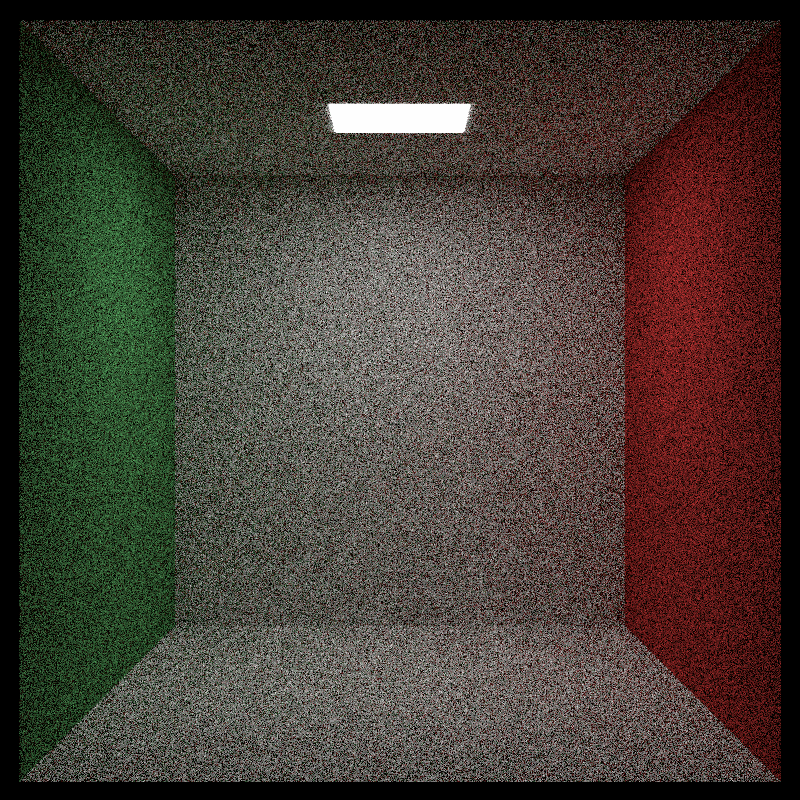
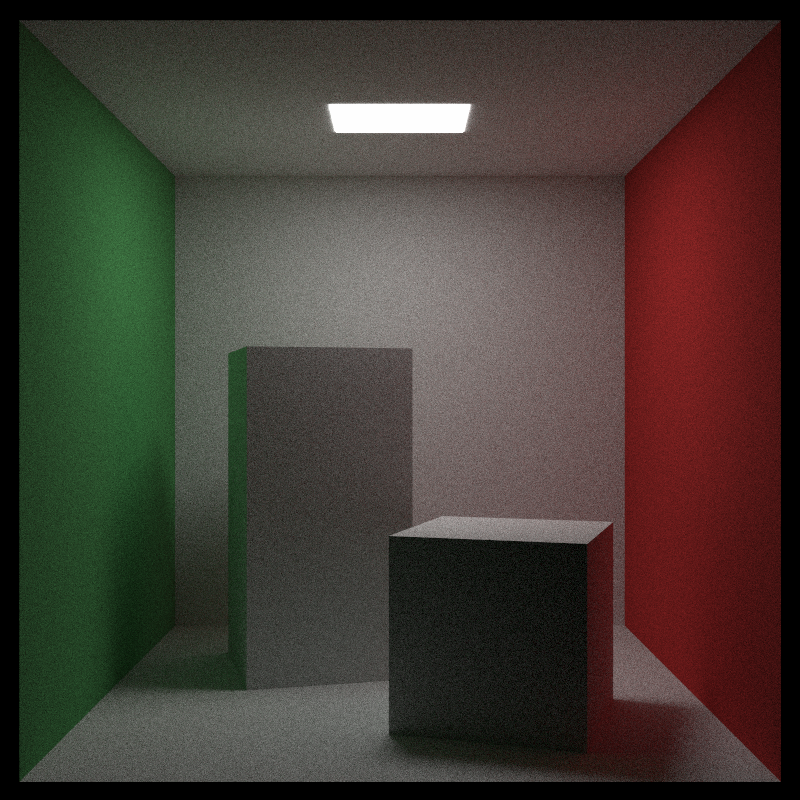
Add instances (Ch 8)

diff --git a/src/hittable.rs b/src/hittable.rs
@@ -117,3 +117,124 @@ impl Hittable for HittableList {
         Some(output_box)
     }
 }
+
+pub struct Translate {
+    hittable: Arc<dyn Hittable>,
+    offset: Vec3,
+}
+
+impl Translate {
+    pub fn new(hittable: Arc<dyn Hittable>, offset: Vec3) -> Self {
+        Self { hittable, offset }
+    }
+}
+
+impl Hittable for Translate {
+    fn bounding_box(&self, t0: f64, t1: f64) -> Option<Aabb> {
+        if let Some(aabb) = self.hittable.bounding_box(t0, t1) {
+            Some(Aabb::new(
+                aabb.min() + self.offset,
+                aabb.max() + self.offset,
+            ))
+        } else {
+            None
+        }
+    }
+
+    fn hit(&self, ray: &Ray, t_min: f64, t_max: f64) -> Option<HitRecord> {
+        let moved_ray = Ray::new(ray.origin() - self.offset, ray.direction(), ray.time());
+
+        if let Some(mut hit_rec) = self.hittable.hit(&moved_ray, t_min, t_max) {
+            hit_rec.point += self.offset;
+            let outward_normal = hit_rec.normal;
+            hit_rec.set_face_normal(&moved_ray, &outward_normal);
+            Some(hit_rec)
+        } else {
+            None
+        }
+    }
+}
+
+pub struct RotateY {
+    hittable: Arc<dyn Hittable>,
+    sin_theta: f64,
+    cos_theta: f64,
+    aabb: Option<Aabb>,
+}
+
+impl RotateY {
+    pub fn new(hittable: Arc<dyn Hittable>, angle: f64) -> Self {
+        let radians = angle.to_radians();
+        let sin_theta = radians.sin();
+        let cos_theta = radians.cos();
+        let aabb = hittable.bounding_box(0.0, 1.0).unwrap();
+
+        use std::f64::{INFINITY, NEG_INFINITY};
+        let mut min = Point3::new(INFINITY, INFINITY, INFINITY);
+        let mut max = Point3::new(NEG_INFINITY, NEG_INFINITY, NEG_INFINITY);
+
+        for i in 0..2 {
+            for j in 0..2 {
+                for k in 0..2 {
+                    let x = i as f64 * aabb.max().x() + (1.0 - i as f64) * aabb.min().x();
+                    let y = j as f64 * aabb.max().y() + (1.0 - j as f64) * aabb.min().y();
+                    let z = k as f64 * aabb.max().z() + (1.0 - k as f64) * aabb.min().z();
+
+                    let newx = cos_theta * x + sin_theta * z;
+                    let newz = -sin_theta * x + cos_theta * z;
+
+                    let tester = Vec3::new(newx, y, newz);
+
+                    for c in 0..3 {
+                        min[c] = min[c].min(tester[c]);
+                        max[c] = max[c].max(tester[c]);
+                    }
+                }
+            }
+        }
+
+        Self {
+            hittable,
+            cos_theta,
+            sin_theta,
+            aabb: Some(Aabb::new(min, max)),
+        }
+    }
+}
+
+impl Hittable for RotateY {
+    fn bounding_box(&self, _t0: f64, _t1: f64) -> Option<Aabb> {
+        self.aabb
+    }
+
+    fn hit(&self, ray: &Ray, t_min: f64, t_max: f64) -> Option<HitRecord> {
+        let mut origin = ray.origin();
+        let mut direction = ray.direction();
+
+        origin[0] = self.cos_theta * ray.origin()[0] - self.sin_theta * ray.origin()[2];
+        origin[2] = self.sin_theta * ray.origin()[0] + self.cos_theta * ray.origin()[2];
+
+        direction[0] = self.cos_theta * ray.direction()[0] - self.sin_theta * ray.direction()[2];
+        direction[2] = self.sin_theta * ray.direction()[0] + self.cos_theta * ray.direction()[2];
+
+        let rotated_ray = Ray::new(origin, direction, ray.time());
+
+        if let Some(mut hit_rec) = self.hittable.hit(&rotated_ray, t_min, t_max) {
+            let mut p = hit_rec.point;
+            let mut n = hit_rec.normal;
+
+            p[0] = self.cos_theta * hit_rec.point[0] + self.sin_theta * hit_rec.point[2];
+            p[2] = -self.sin_theta * hit_rec.point[0] + self.cos_theta * hit_rec.point[2];
+
+            n[0] = self.cos_theta * hit_rec.normal[0] + self.sin_theta * hit_rec.normal[2];
+            n[2] = -self.sin_theta * hit_rec.normal[0] + self.cos_theta * hit_rec.normal[2];
+
+            hit_rec.point = p;
+            hit_rec.set_face_normal(&rotated_ray, &n);
+
+            Some(hit_rec)
+        } else {
+            None
+        }
+    }
+}

diff --git a/src/primitives/aabox.rs b/src/primitives/aabox.rs
@@ -1,0 +1,79 @@
+use super::{XyPlane, XzPlane, YzPlane};
+use crate::hittable::{HitRecord, Hittable, HittableList};
+use crate::material::Material;
+use crate::math::{Aabb, Point3, Ray};
+use std::sync::Arc;
+
+pub struct AaBox {
+    min: Point3,
+    max: Point3,
+    sides: HittableList,
+}
+
+impl AaBox {
+    pub fn new(min: Point3, max: Point3, material: Arc<dyn Material>) -> Self {
+        let mut sides = HittableList::new();
+
+        sides.add(XyPlane::new(
+            min.x(),
+            max.x(),
+            min.y(),
+            max.y(),
+            max.z(),
+            material.clone(),
+        ));
+        sides.add(XyPlane::new(
+            min.x(),
+            max.x(),
+            min.y(),
+            max.y(),
+            min.z(),
+            material.clone(),
+        ));
+
+        sides.add(XzPlane::new(
+            min.x(),
+            max.x(),
+            min.z(),
+            max.z(),
+            max.y(),
+            material.clone(),
+        ));
+        sides.add(XzPlane::new(
+            min.x(),
+            max.x(),
+            min.z(),
+            max.z(),
+            min.y(),
+            material.clone(),
+        ));
+
+        sides.add(YzPlane::new(
+            min.y(),
+            max.y(),
+            min.z(),
+            max.z(),
+            max.x(),
+            material.clone(),
+        ));
+        sides.add(YzPlane::new(
+            min.y(),
+            max.y(),
+            min.z(),
+            max.z(),
+            min.x(),
+            material.clone(),
+        ));
+
+        Self { min, max, sides }
+    }
+}
+
+impl Hittable for AaBox {
+    fn bounding_box(&self, _t0: f64, _t1: f64) -> Option<Aabb> {
+        Some(Aabb::new(self.min, self.max))
+    }
+    fn hit(&self, ray: &Ray, t_min: f64, t_max: f64) -> Option<HitRecord> {
+        self.sides.hit(ray, t_min, t_max)
+    }
+}

diff --git a/examples/book2/scenes/cornellbox.rs b/examples/book2/scenes/cornellbox.rs
@@ -1,5 +1,10 @@
 use raytracer::{
-    bvh::BvhNode, camera::Camera, hittable::HittableList, material::*, math::Color, primitives::*,
+    bvh::BvhNode,
+    camera::Camera,
+    hittable::{Hittable, HittableList, RotateY, Translate},
+    material::*,
+    math::{Color, Point3, Vec3},
+    primitives::*,
     scene::*,
 };
 use std::sync::Arc;
@@ -51,6 +56,25 @@ pub fn cornell_box(camera: Camera, background: Color, use_bvh: bool) -> Scene {
         554.0,
         mat_light.clone(),
     ));
+
+    // boxes
+    let box0 = Arc::new(AaBox::new(
+        Point3::new(0.0, 0.0, 0.0),
+        Point3::new(165.0, 330.0, 165.0),
+        mat_white.clone(),
+    ));
+    let box0: Arc<dyn Hittable> = Arc::new(RotateY::new(box0.clone(), 15.0));
+    let box0 = Translate::new(box0.clone(), Vec3::new(265.0, 0.0, 295.0));
+    scene_objects.add(box0);
+
+    let box1 = Arc::new(AaBox::new(
+        Point3::new(0.0, 0.0, 0.0),
+        Point3::new(165.0, 165.0, 165.0),
+        mat_white.clone(),
+    ));
+    let box1: Arc<dyn Hittable> = Arc::new(RotateY::new(box1.clone(), -18.0));
+    let box1 = Translate::new(box1.clone(), Vec3::new(130.0, 0.0, 65.0));
+    scene_objects.add(box1);
 
     if use_bvh {
         let bvh = BvhNode::from_list(&scene_objects, 0.0, 1.0);

diff --git a/src/primitives/mod.rs b/src/primitives/mod.rs
@@ -1,7 +1,9 @@
 //! Scene object types that implement [`Hittable`](crate::hittable::Hittable)
 
-pub mod plane;
+mod aabox;
+mod plane;
 mod sphere;
 
+pub use aabox::*;
 pub use plane::*;
 pub use sphere::*;
